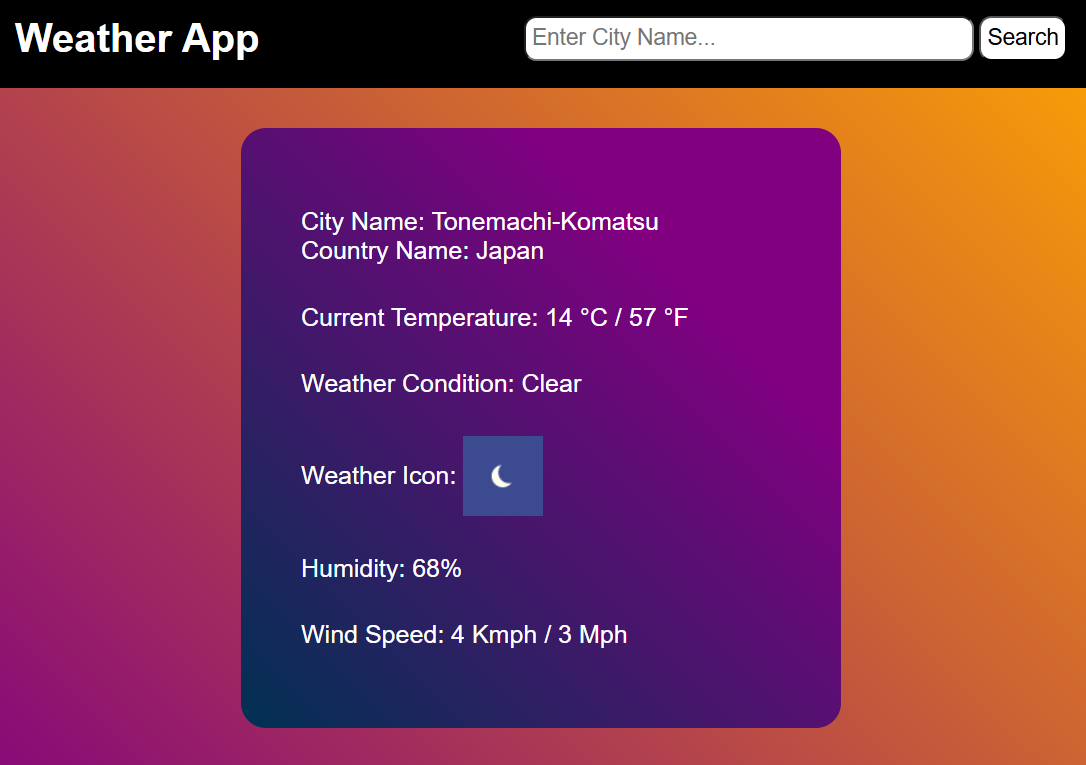
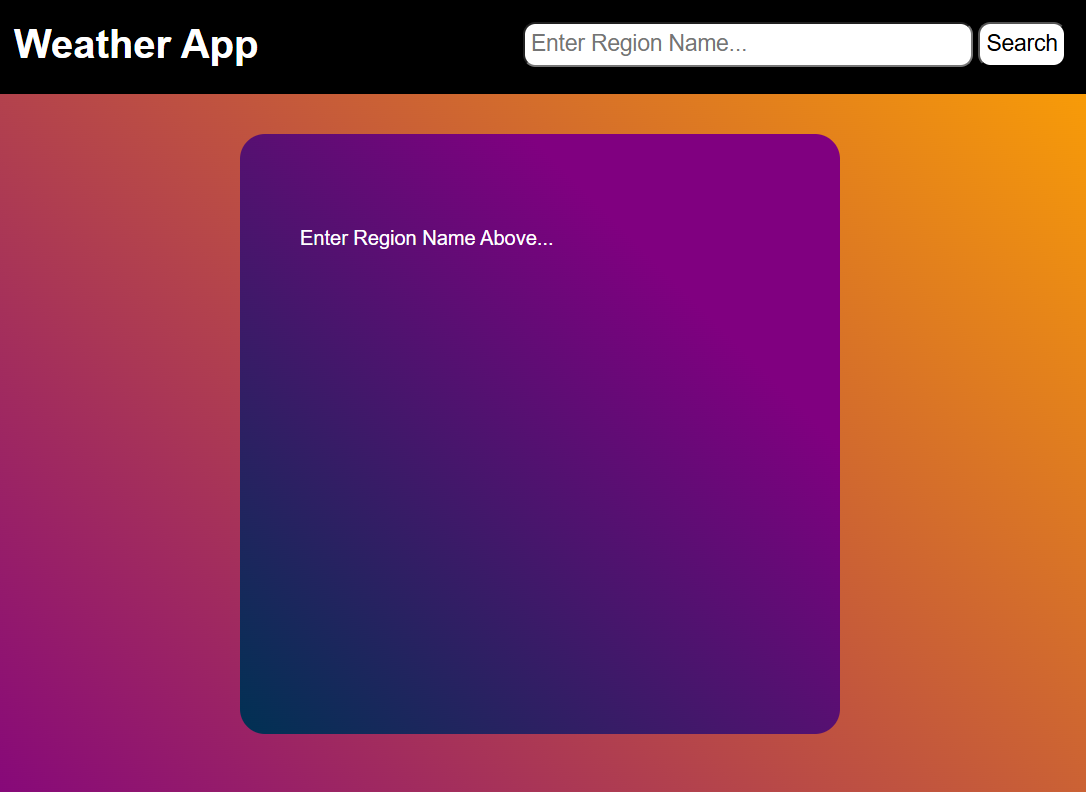
README.md updates on spinner animation

diff --git a/js-practise-projects/Weather App/README.md b/js-practise-projects/Weather App/README.md
@@ -27,6 +27,7 @@ This project fetches live weather data from an API and dynamically updates the U
 - Responsive UI
 - Error handling for failed API requests
 - Dynamic DOM updates
+- Spinner animation
 
 ---
 
@@ -50,6 +51,7 @@ This project fetches live weather data from an API and dynamically updates the U
 - Updating UI dynamically
 - Separating data fetching and UI rendering
 - Handling form submissions
+- Spinner animation
 
 ---
 